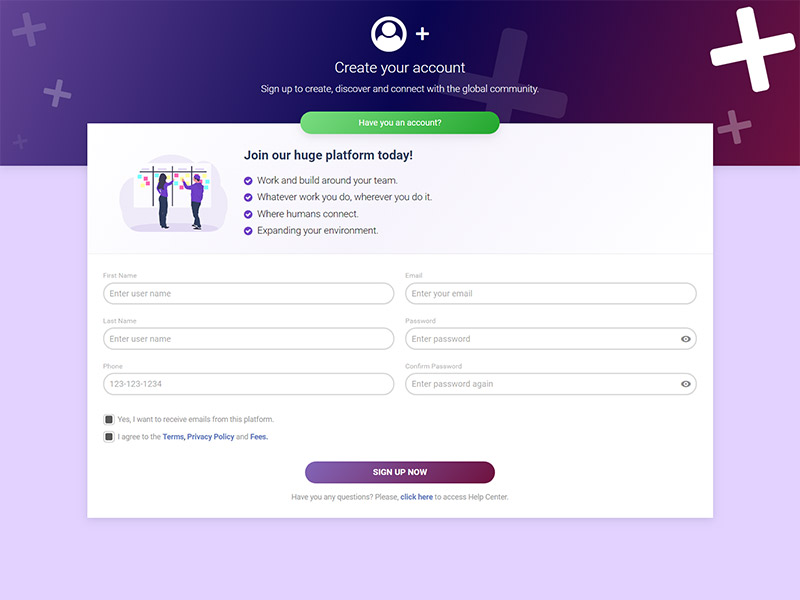
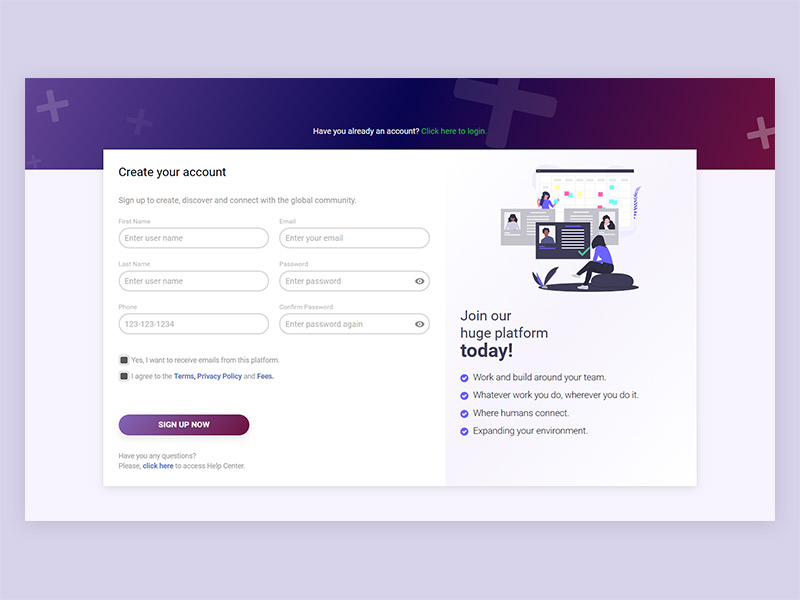
Sign up page redesigned.

diff --git a/docs/sign-up-page.html b/docs/sign-up-page.html
@@ -43,6 +43,7 @@
     <script src="../js/forms.js"></script>
     <script src="../js/ie9-placeholders.js"></script>
     <script src="../js/required-forms.js"></script>
+    <script src="../js/static-grid.js"></script>
     <script src="../js/toggle-password.js"></script>
     <script src="../js/transitions.js"></script>
     <script src="../js/user-agents.js"></script>
@@ -52,33 +53,28 @@
 
     <!-- custom CSS -->
     <style>
-        body { background-color: #e2d2ff; }
+        body { background-color: #f6f4fc; }
 
         .content-holder { background-image: linear-gradient(110deg, #624494, #080550, #6f113e); }
         .ie9 .content-holder { background-color: #624494; }
-        .content-holder .icon { font-size: 66px; }
+
+        .content-icons .icon { position: absolute; }
+        .content-icons .icon:nth-child(1) { font-size: 52px; bottom: 70px; left: 202px; opacity: .05; transform: rotate(12deg); }
+        .content-icons .icon:nth-child(2) { font-size: 28px; bottom: 2px; left: 4px; opacity: .075; transform: rotate(-12deg); }
+        .content-icons .icon:nth-child(3) { font-size: 64px; top: 22px; left: 22px; opacity: .15; transform: rotate(-12deg); }
+        .content-icons .icon:nth-child(4) { font-size: 64px; bottom: 42px; right: -8px; opacity: .3; transform: rotate(-12deg); }
+        .content-icons .icon:nth-child(5) { font-size: 206px; top: -68px; right: 29%; opacity: .1; transform: rotate(12deg); }
+
+        .form-container { margin-top: -50px; }
+
+        .form-btn { min-width: 42%; background-image: linear-gradient(130deg, #8366b9,#6f113e); }
+        .ie9 .form-btn { background-color: #8366b9; }
 
         .why-join { background-image: linear-gradient(130deg, #fff, #f6f4fc, #fff); }
         .ie9 .why-join { background-color: #fff; }
-        .why-join h3 { color: #303d5c; }
-        .why-join .icon { color: #7041c7 !important; }
+        .why-join h3 { color: #3f3d56; }
+        .why-join .icon { color: #6c63ff !important; }
 
-        .content-btn { min-width: 26%; background-image: linear-gradient(130deg, #7adc81,#23a72e); z-index: 1; }
-        .ie9 .content-btn {background-color: #23a72e; }
-
-        .form-btn { min-width: 32%; background-image: linear-gradient(130deg, #8366b9,#6f113e); }
-        .ie9 .form-btn { background-color: #8366b9; }
-        
-        .content-container > .icon { font-size: 160px; position: absolute; top: 10px; right: 10px; transform: rotate(-12deg); }
-
-        .content-icons .icon { position: absolute; }
-        .content-icons .icon:nth-child(1) { font-size: 52px; bottom: 112px; left: 82px; opacity: .25; transform: rotate(12deg); }
-        .content-icons .icon:nth-child(2) { font-size: 28px; bottom: 32px; left: 24px; opacity: .075; transform: rotate(-12deg); }
-        .content-icons .icon:nth-child(3) { font-size: 64px; top: 22px; left: 22px; opacity: .15; transform: rotate(-12deg); }
-        .content-icons .icon:nth-child(4) { font-size: 64px; bottom: 42px; right: 92px; opacity: .3; transform: rotate(-12deg); }
-        .content-icons .icon:nth-child(5) { font-size: 246px; top: 48px; right: 29%; opacity: .1; transform: rotate(12deg); }
-
-        .form-container { margin-top: -90px; }
 </style>
 
 </head>
@@ -91,18 +87,7 @@
         <div class="row row-no-padding">
             <div class="content-container col-12">
 
-                <div class="content-holder align-center no-overflow set-relative ui-dark shadow-lg">
-
-                    <div class="padding-30">
-                        <i class="icon icon-customer"></i>
-                        <i class="icon icon-lg icon-plus margin-15-l hidden-md"></i>
-                        <span class="sp15"></span>
-                        <h1 class="thin largest margin-10-b hidden-md">Create your account</h1>
-                        <p class="x-large thin">Sign up to create, discover and connect with the global community.</p>
-                        <span class="sp10"></span>
-                        <button class="content-btn btn btn-lg btn-sm-responsive circle scale shadow-lg hover-shadow ease-layout set-relative">Have you an account?</button>
-                        <span class="sp30"></span>
-                    </div>
+                <div class="content-holder no-overflow set-relative ui-dark">
 
                     <div class="content-icons">
                         <i class="icon icon-plus"></i>
@@ -112,9 +97,20 @@
                         <i class="icon icon-plus"></i>
                     </div>
 
-                </div>
+                    <div class="fixed theme-green">
+                        <div class="row">
+                            <div class="col-12 padding-15-v align-center">
+                                <span class="sp30 margin-20-v"></span>
+                                <button class="btn xx-light btn-lg btn-ghost btn-ghost-border btn-sm-responsive padding-30-h circle dual-bordered ui-border ease-btn">
+                                    <span class="xx-light">Have you already an account?</span>
+                                    <span class="ui-text hidden-sm">Click here to login.</span>
+                                </button>
+                                <span class="sp30 margin-5-v"></span>
+                            </div>
+                        </div>
+                    </div>
 
-                <i class="icon xx-light icon-plus hidden-md"></i>
+                </div>
 
             </div>
         </div>
@@ -126,119 +122,131 @@
                 
                         <div class="portlet margin-30-b shadow-lg">
 
-                            <div class="why-join content-side sm-align-center padding-30 bottom-bordered theme-gray ui-x-light">
-
-                                <span class="sp15"></span>
-                                <img class="margin-30-h margin-30-b left sm-no-float" src="img/sign-up.png" height="160" alt="">
-                                
-                                <h3 class="bold">Join our huge platform today!</h3>
-                                <ul class="list-unstyled list-spacer-5 thin x-large">
-                                    <li>
-                                        <i class="icon icon-sm icon-tick margin-5-r hidden-sm"></i>
-                                        <span class="inline-block">Work and build around your team.</span>
-                                    </li>
-                                    <li>
-                                        <i class="icon icon-sm icon-tick margin-5-r hidden-sm"></i>
-                                        <span class="inline-block">Whatever work you do, wherever you do it.</span>
-                                    </li>
-                                    <li>
-                                        <i class="icon icon-sm icon-tick margin-5-r hidden-sm"></i>
-                                        <span class="inline-block">Where humans connect.</span>
-                                    </li>
-                                    <li>
-                                        <i class="icon icon-sm icon-tick margin-5-r hidden-sm"></i>
-                                        <span class="inline-block">Expanding your environment.</span>
-                                    </li>
-                                </ul>
-
-                            </div>
-                            
-                            <div class="row padding-20">
-                                <div class="col-6">
-
-                                    <label class="form-label x-dark">First Name</label>
-                                    <div class="text text-lg circle dual-bordered ease-form">
-                                        <input class="required" type="text" placeholder="Enter user name" minlength="3">
+                            <div class="col-static sm-responsive">
+                                <div class="row padding-20">
+                                    <div class="col-12">
+                                        <h3 class="margin-30-b">Create your account</h3>
+                                        <p class="dark large">Sign up to create, discover and connect with the global community.</p>
                                     </div>
-                                    <p class="required-msg circle">Enter your first name.</p>
-            
-                                    <span class="sp20"></span>
-                                    
-                                    <label class="form-label x-dark">Last Name</label>
-                                    <div class="text text-lg circle dual-bordered ease-form">
-                                        <input class="required" type="text" placeholder="Enter user name" minlength="3">
+                                    <div class="col-6">
+
+                                        <label class="form-label x-dark">First Name</label>
+                                        <div class="text text-lg circle dual-bordered ease-form">
+                                            <input class="required" type="text" placeholder="Enter user name" minlength="3">
+                                        </div>
+                                        <p class="required-msg circle">Enter your first name.</p>
+                
+                                        <span class="sp20"></span>
+                                        
+                                        <label class="form-label x-dark">Last Name</label>
+                                        <div class="text text-lg circle dual-bordered ease-form">
+                                            <input class="required" type="text" placeholder="Enter user name" minlength="3">
+                                        </div>
+                                        <p class="required-msg circle">Enter your last name.</p>
+                
+                                        <span class="sp20"></span>
+                                        
+                                        <label class="form-label x-dark">Phone</label>
+                                        <div class="text text-lg circle dual-bordered ease-form">
+                                            <input class="required" type="number" placeholder="123-123-1234" minlength="12">
+                                        </div>
+                                        <p class="required-msg circle">Enter your phone.</p>
+                
                                     </div>
-                                    <p class="required-msg circle">Enter your last name.</p>
-            
-                                    <span class="sp20"></span>
-                                    
-                                    <label class="form-label x-dark">Phone</label>
-                                    <div class="text text-lg circle dual-bordered ease-form">
-                                        <input class="required" type="number" placeholder="123-123-1234" minlength="12">
-                                    </div>
-                                    <p class="required-msg circle">Enter your phone.</p>
-            
-                                </div>
-                                <div class="col-6">
-
-                                    <label class="form-label x-dark">Email</label>
-                                    <div class="text text-lg circle dual-bordered ease-form">
-                                        <input class="required" type="email" placeholder="Enter your email">
-                                    </div>
-                                    <p class="required-msg circle">Enter your email.</p>
-            
-                                    <span class="sp20"></span>
-            
-                                    <label class="form-label x-dark">Password</label>
-                                    <div class="text text-lg text-icon text-icon-lg circle dual-bordered ease-form">
-                                        <span title="Show/Hide Password" class="toggle-password icon icon-md margin-5-r icon-eye ease-layout"></span>
-                                        <input class="required" type="password" placeholder="Enter password" minlength="8">
-                                    </div>
-                                    <p class="required-msg circle">Minimum length is 8 characters.</p>
-                                    
-                                    <span class="sp20"></span>
-            
-                                    <label class="form-label x-dark">Confirm Password</label>
-                                    <div class="text text-lg text-icon text-icon-lg circle dual-bordered ease-form">
-                                        <span title="Show/Hide Password" class="toggle-password icon icon-md margin-5-r icon-eye ease-layout"></span>
-                                        <input class="required" type="password" placeholder="Enter password again" minlength="8">
-                                    </div>
-                                    <p class="required-msg circle">Please confirm your password.</p>
-
-                                </div>
-                            </div>
-
-                            <div class="content-side padding-30 no-padding-t theme-default2">
-
-                                <label class="custom">
-                                    <span class="check-custom rounded dual-bordered ease-form">
-                                        <input type="checkbox" checked>
-                                        <i class="ease-form-custom"></i>
-                                    </span>
-                                    <b class="dark">Yes, I want to receive emails from this platform.</b>
-                                </label>
-
-                                <span class="clearfix"></span>
-
-                                <label class="custom">
-                                    <span class="check-custom rounded dual-bordered ease-form">
-                                        <input type="checkbox" checked>
-                                        <i class="ease-form-custom"></i>
-                                    </span>
-                                    <b><span class="dark">I agree to the</span> <a class="bold hoverline ui-text" href="#">Terms</a>, <a class="bold hoverline ui-text" href="#">Privacy Policy</a> <span class="dark">and</span> <a class="bold ui-text" href="#">Fees.</a></b>
-                                </label>
-        
-                                <span class="sp30"></span>
-                                
-                                <div class="align-center">
-                                    <button type="submit" class="form-btn btn btn-lg btn-sm-responsive xx-light circle scale hover-shadow ease-layout"><b>SIGN UP NOW</b></button>
-                                    <span class="sp15"></span>
-                                    <span class="dark">Have you any questions? Please,</span> <a class="bold hoverline ui-text" href="#">click here</a> <span class="dark">to access Help Center.</span>
-                                </div>
-
-                            </div>
+                                    <div class="col-6">
     
+                                        <label class="form-label x-dark">Email</label>
+                                        <div class="text text-lg circle dual-bordered ease-form">
+                                            <input class="required" type="email" placeholder="Enter your email">
+                                        </div>
+                                        <p class="required-msg circle">Enter your email.</p>
+                
+                                        <span class="sp20"></span>
+                
+                                        <label class="form-label x-dark">Password</label>
+                                        <div class="text text-lg text-icon text-icon-lg circle dual-bordered ease-form">
+                                            <span title="Show/Hide Password" class="toggle-password icon icon-md margin-5-r icon-eye ease-layout"></span>
+                                            <input class="required" type="password" placeholder="Enter password" minlength="8">
+                                        </div>
+                                        <p class="required-msg circle">Minimum length is 8 characters.</p>
+                                        
+                                        <span class="sp20"></span>
+                
+                                        <label class="form-label x-dark">Confirm Password</label>
+                                        <div class="text text-lg text-icon text-icon-lg circle dual-bordered ease-form">
+                                            <span title="Show/Hide Password" class="toggle-password icon icon-md margin-5-r icon-eye ease-layout"></span>
+                                            <input class="required" type="password" placeholder="Enter password again" minlength="8">
+                                        </div>
+                                        <p class="required-msg circle">Please confirm your password.</p>
+    
+                                    </div>
+                                    <div class="col-12 theme-default2">
+
+                                        <span class="sp15"></span>
+                                        <label class="custom">
+                                            <span class="check-custom rounded dual-bordered ease-form">
+                                                <input type="checkbox" checked>
+                                                <i class="ease-form-custom"></i>
+                                            </span>
+                                            <span class="dark">Yes, I want to receive emails from this platform.</span>
+                                        </label>
+        
+                                        <span class="clearfix"></span>
+        
+                                        <label class="custom">
+                                            <span class="check-custom rounded dual-bordered ease-form">
+                                                <input type="checkbox" checked>
+                                                <i class="ease-form-custom"></i>
+                                            </span>
+                                            <span class="dark">I agree to the</span>
+                                            <a class="bold hoverline ui-text" href="#">Terms</a>,
+                                            <a class="bold hoverline ui-text" href="#">Privacy Policy</a>
+                                            <span class="dark">and</span>
+                                            <a class="bold ui-text" href="#">Fees.</a>
+                                        </label>
+                
+                                        <span class="sp30 margin-15-v"></span>
+                                        
+                                        <button type="submit" class="form-btn btn btn-lg btn-md-responsive xx-light circle shadow-lg scale hover-shadow ease-layout"><b>SIGN UP NOW</b></button>
+                                        <span class="sp30"></span>
+                                        <span class="dark">Have you any questions?<br>Please,</span> <a class="bold hoverline ui-text" href="#">click here</a> <span class="dark">to access Help Center.</span>
+            
+                                    </div>
+                                </div>
+                                <div class="why-join lg-static-500 static-400 md-static-350 order-sm-first sm-align-center padding-30">
+                                    
+                                    <img class="automargin" src="img/sign-up.png" alt="Join Us" width="280">
+                                    <span class="sp30"></span>
+                                    
+                                    <h3 class="largest">
+                                        Join our<br class="hidden-sm">huge platform<br class="hidden-sm">
+                                        <span class="bold x-largest">today!</span>
+                                    </h3>
+                                    <ul class="list-unstyled list-spacer-10 thin x-large">
+                                        <li>
+                                            <i class="icon icon-sm icon-tick margin-5-r hidden-sm"></i>
+                                            Work and build around your team.
+                                        </li>
+                                        <li>
+                                            <i class="icon icon-sm icon-tick margin-5-r hidden-sm"></i>
+                                            Whatever work you do, wherever you do it.
+                                        </li>
+                                        <li>
+                                            <i class="icon icon-sm icon-tick margin-5-r hidden-sm"></i>
+                                            Where humans connect.
+                                        </li>
+                                        <li>
+                                            <i class="icon icon-sm icon-tick margin-5-r hidden-sm"></i>
+                                            Expanding your environment.
+                                        </li>
+                                    </ul>
+        
+                                </div>
+                            </div>
+
                         </div>
+
+                        <span class="sp30"></span>
         
                     </div>
                 </div>
